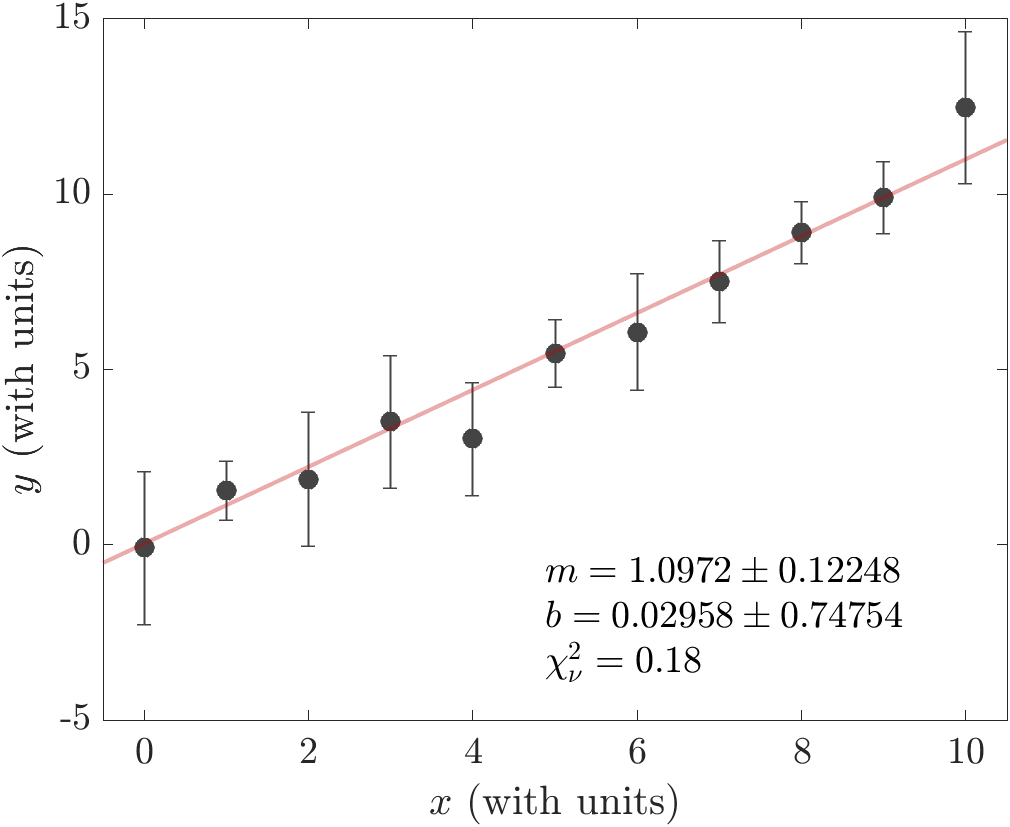
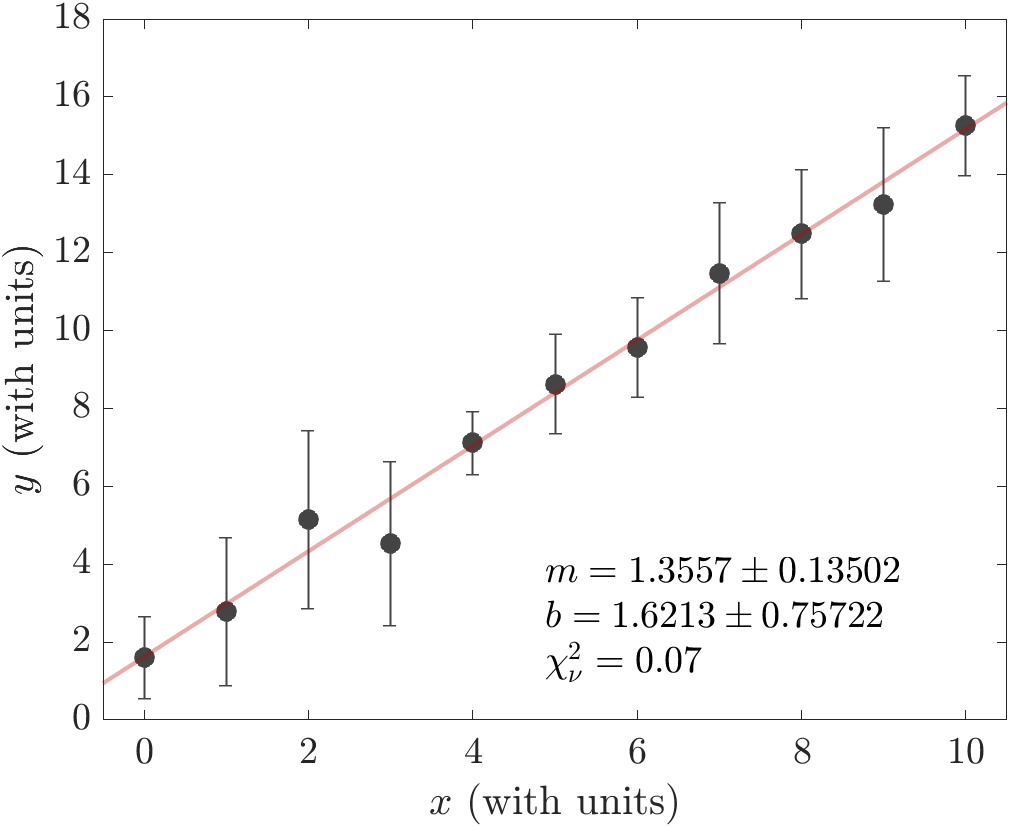
Better figs
Updated 4th and 5th figures.

diff --git a/docs/curve-fitting.md b/docs/curve-fitting.md
@@ -65,7 +65,7 @@ Also reported in the legend is the "reduced chi-squared", $$\chi_\nu^2$$, which 
 
 In the example data above, we had 11 data points and two fitting parameters ($$m$$ and $$b$$). Roughly speaking, the reduced $$\chi^2$$ value tells us on average how many error bars away each data point is from the fitted line. So the value $$\chi_\nu^2 = 0.86$$ in the example means that on average each data point is just within its error bar of the fitted line. Looking at the data and fit above, although there are a couple of data points that are farther away from the line than their error bars, on average they fall within their error bar of the fitted line.
 
-**The value of $$\chi_\nu^2$$ is important because it can tell us how good our fit is (or sometimes, how well we estimated the error bars).** If our error bars are an accurate representation of the uncertainty in the data, we would expect *on average* each data point to be approximately one error bar away from the line: $$\chi_\nu^2 \approx 1$$. In the example above, the value of $$\chi_\nu^2 = 0.86$$ supports the idea that our linear fit is a good model of the data. 
+**The value of $$\chi_\nu^2$$ is important because it can tell us how good our fit is (or sometimes, how well we estimated the error bars).** If the error bars are an accurate representation of the uncertainty in the data, we would expect *on average* each data point to be approximately one error bar away from the line: $$\chi_\nu^2 \approx 1$$. In the example above, the value of $$\chi_\nu^2 = 0.86$$ supports the idea that our linear fit is a good model of the data. 
 
 Let's look at two examples where our reduced $$\chi^2$$ value differs significantly from 1. First, here's an example where $$\chi_\nu^2$$ is small:
 
